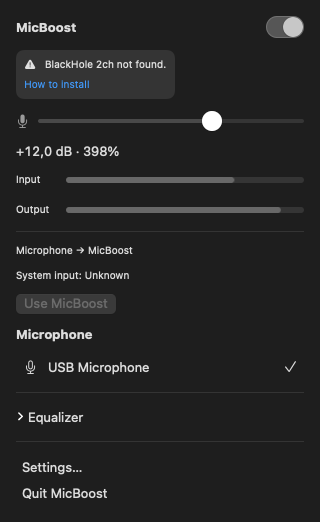
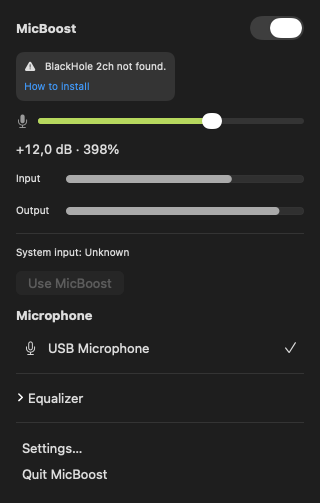
Use native menu defaults and record the actual build SDK

diff --git a/Sources/MicBoostApp/App/main.swift b/Sources/MicBoostApp/App/main.swift
@@ -2,27 +2,47 @@ import AppKit
 import MicBoostUI
 import SwiftUI
 
-@MainActor final class AppDelegate: NSObject, NSApplicationDelegate, NSWindowDelegate, NSPopoverDelegate {
+@MainActor final class AppDelegate: NSObject, NSApplicationDelegate, NSWindowDelegate, NSMenuDelegate {
     private let model = AppModel()
     private var status: NSStatusItem?
-    private let popover = NSPopover()
+    private let panelMenu = NSMenu(title: "MicBoost")
+    private var menuHost: NSView?
+    private var optionClickMonitor: Any?
     private var settings: NSWindow?
     private var quitting = false
     func applicationDidFinishLaunching(_ notification: Notification) {
         configureMenu()
         let item = NSStatusBar.system.statusItem(withLength: NSStatusItem.squareLength)
-        item.button?.target = self
-        item.button?.action = #selector(toggle)
-        item.button?.sendAction(on: [.leftMouseUp, .rightMouseUp])
         status = item
-        popover.behavior = .transient
-        popover.delegate = self
-        let host = NSHostingController(
-            rootView: PanelView(model: model).onExitCommand { [weak self] in
-                self?.closePanel()
-            })
-        host.sizingOptions = .preferredContentSize
-        popover.contentViewController = host
+        panelMenu.autoenablesItems = false
+        panelMenu.delegate = self
+        let host = NSHostingView(
+            rootView: PanelView(model: model)
+                .onGeometryChange(for: CGSize.self) {
+                    $0.size
+                } action: { [weak self] size in
+                    guard let host = self?.menuHost, host.frame.size != size else { return }
+                    host.setFrameSize(size)
+                })
+        host.safeAreaRegions = []
+        host.frame = NSRect(origin: .zero, size: host.fittingSize)
+        host.autoresizingMask = [.width]
+        menuHost = host
+        let content = NSMenuItem()
+        content.view = host
+        content.isEnabled = true
+        panelMenu.addItem(content)
+        item.menu = panelMenu
+        optionClickMonitor = NSEvent.addLocalMonitorForEvents(matching: [.leftMouseDown, .rightMouseDown]) {
+            [weak self] event in
+            let consumed = MainActor.assumeIsolated {
+                guard let self, event.window === self.status?.button?.window, event.modifierFlags.contains(.option)
+                else { return false }
+                self.model.processing(!self.model.controls.processingEnabled)
+                return true
+            }
+            return consumed ? nil : event
+        }
         model.onSettings = { [weak self] in self?.showSettings() }
         model.onQuit = { NSApplication.shared.terminate(nil) }
         model.onUpdate = { [weak self] in self?.update() }
@@ -67,28 +87,20 @@ import SwiftUI
             "MicBoost, \(model.message ?? localized(model.controls.processingEnabled ? "Active" : "Stopped")), \(AppModel.gainLabel(model.controls.gainDB))"
         )
     }
-    @objc private func toggle() {
-        if NSEvent.modifierFlags.contains(.option) {
-            model.processing(!model.controls.processingEnabled)
-            return
-        }
-        if popover.isShown { closePanel() } else { showPanel() }
-    }
     private func showPanel() {
-        guard let button = status?.button else { return }
-        popover.animates = !NSWorkspace.shared.accessibilityDisplayShouldReduceMotion
-        NSApplication.shared.activate(ignoringOtherApps: true)
-        popover.show(relativeTo: button.bounds, of: button, preferredEdge: .minY)
-        popover.contentViewController?.view.window?.makeKey()
+        RunLoop.main.perform(inModes: [.default]) { [weak self] in
+            MainActor.assumeIsolated { self?.status?.button?.performClick(nil) }
+        }
     }
     private func closePanel() {
-        popover.performClose(nil)
+        panelMenu.cancelTracking()
     }
-    func popoverDidShow(_ notification: Notification) {
+    func menuWillOpen(_ menu: NSMenu) {
+        NSApplication.shared.activate(ignoringOtherApps: true)
         status?.button?.highlight(true)
         model.setPanelVisible(true)
     }
-    func popoverWillClose(_ notification: Notification) {
+    func menuDidClose(_ menu: NSMenu) {
         model.setPanelVisible(false)
         status?.button?.highlight(false)
     }
@@ -112,7 +124,11 @@ import SwiftUI
     func windowWillClose(_ notification: Notification) { model.settingsVisible = false }
     @objc private func sleep() { Task { try? await model.engine.willSleep() } }
     @objc private func wake() { Task { await model.engine.didWake() } }
+    func applicationWillTerminate(_ notification: Notification) {
+        if let optionClickMonitor { NSEvent.removeMonitor(optionClickMonitor) }
+    }
     func applicationShouldTerminate(_ sender: NSApplication) -> NSApplication.TerminateReply {
+        closePanel()
         guard !quitting else { return .terminateNow }
         quitting = true
         Task {

diff --git a/Sources/MicBoostUI/Views.swift b/Sources/MicBoostUI/Views.swift
@@ -16,7 +16,9 @@ import SwiftUI
                     localized("Processing"),
                     isOn: Binding(get: { model.controls.processingEnabled }, set: model.processing)
                 )
-                .labelsHidden().toggleStyle(.switch).accessibilityLabel(localized("Processing"))
+                .labelsHidden().toggleStyle(.switch)
+                .accessibilityLabel(
+                    localized("Processing"))
             }
             if let message = model.message {
                 VStack(alignment: .leading) {
@@ -71,7 +73,6 @@ import SwiftUI
             meter("Output", model.outputDB)
             if model.clipped { Text(localized("Input clipped")).font(.caption).foregroundStyle(.red) }
             Divider()
-            Text("\(model.status?.source?.name ?? localized("Microphone")) → MicBoost").font(.caption)
             if model.status?.defaultInput.isBlackHole == true {
                 Label(localized("System input: MicBoost"), systemImage: "checkmark.circle.fill").font(.caption)
             } else {
@@ -109,7 +110,7 @@ import SwiftUI
                             .labelsHidden()
                             .accessibilityLabel(localized("Enable EQ"))
                             .toggleStyle(.switch)
-                            .controlSize(.small)
+
                             .onChange(of: model.controls.eq.enabled) { model.eq() }
                     }
                     band(
@@ -235,6 +236,7 @@ import SwiftUI
                     }.fixedSize(horizontal: false, vertical: true)
                 }
                 .toggleStyle(.switch)
+
                 .onChange(of: model.controls.manageDefaultInput) {
                     let enabled = model.controls.manageDefaultInput
                     Task { await model.engine.setDefaultInputManagement(enabled) }
@@ -296,7 +298,7 @@ import SwiftUI
             }
         }
         .formStyle(.grouped)
-        .controlSize(.regular)
+
         .frame(width: 540)
     }
     private var channel: Int {

diff --git a/Sources/render-screenshots/main.swift b/Sources/render-screenshots/main.swift
@@ -22,7 +22,8 @@ import SwiftUI
             let view = kind == "settings" ? AnyView(SettingsView(model: model)) : AnyView(PanelView(model: model))
             let appearance = NSAppearance(named: dark ? .darkAqua : .aqua)
             let host = NSHostingView(
-                rootView: view.padding(0).background(.background).environment(\.colorScheme, scheme))
+                rootView: view.padding(0).background(.background).environment(\.colorScheme, scheme).environment(
+                    \.appearsActive, true))
             host.appearance = appearance
             let size = host.fittingSize
             let window = NSWindow(

diff --git a/docs/ui.md b/docs/ui.md
@@ -21,17 +21,16 @@
 
 ## Painel
 
-`NSPopover` padrão do AppKit, com conteúdo em `NSHostingController<PanelView>`:
-- comportamento `.transient`: o sistema fecha ao clicar fora;
-- moldura, material, transparência, sombra, cantos e seta do próprio popover, sem camadas de fundo nem desenho adicional;
-- conteúdo de 320 pt de largura e altura acompanhando o tamanho preferido do hosting controller;
-- ancorado no `NSStatusBarButton`; posicionamento e limites da tela gerenciados pelo AppKit;
-- foco de teclado na janela do popover para edição de valores e atalhos;
-- animações nativas desabilitadas quando "Reduzir movimento" está ativo.
+`NSMenu` padrão do AppKit, sem seta, com `PanelView` hospedada na `view` de um `NSMenuItem`:
+- moldura, material, transparência, sombra e cantos desenhados pelo próprio menu, sem camadas de fundo adicionais;
+- conteúdo SwiftUI de 320 pt, com padding de conteúdo e sem herdar safe areas da janela interna do menu; mudanças de tamanho atualizam o frame da view do item;
+- aberto sob o `NSStatusBarButton`, alinhado à direita e limitado à tela pelo AppKit;
+- fechamento e navegação do menu gerenciados pelo AppKit, inclusive Escape e clique fora;
+- o delegate inicia os medidores ao abrir e os cancela ao fechar;
+- entrada no tracking pelo run loop para não manter um job de concorrência Swift ocupado.
 
-Fecha com clique fora, `Esc` ou novo clique no ícone. **Fechar o painel nunca afeta o motor.**
-O delegate inicia os medidores ao mostrar e os cancela ao fechar. Aparência e preferências
-de acessibilidade são herdadas do sistema; não alterar o fundo ou a opacidade da janela.
+**Fechar o painel nunca afeta o motor.** Aparência e preferências de acessibilidade
+são herdadas do sistema. Não alterar o fundo, recorte ou opacidade da janela do menu.
 
 Conteúdo, de cima para baixo (SwiftUI, `PanelView`):
 
@@ -41,13 +40,13 @@ Conteúdo, de cima para baixo (SwiftUI, `PanelView`):
    - O estado persiste (`processingEnabled`), e a troca nunca fecha o painel.
 2. **Ganho:** botão de mute com o ícone `mic.fill`/`mic.slash.fill`, `Slider` de ganho de −12 a +24 dB e rótulo `+12,0 dB · 398%`. O valor é editável: clicar no rótulo abre um campo numérico em dB. O selo "Limitando" (pílula discreta) aparece durante a proteção de pico.
 3. **Medidores:** duas barras finas horizontais, "Entrada" e "Saída", em dBFS de −60 a 0, que só mudam de cor perto de 0. Aviso "Entrada saturada" quando `input_clipped`.
-4. **Roteamento:** estado da entrada do sistema:
+4. **Entrada do sistema:** apenas o estado da entrada padrão; a fonte selecionada é indicada pela marcação na lista de microfones, sem uma linha adicional de caminho do áudio:
    - ok: "Entrada do sistema: MicBoost" com marcação;
    - divergência: "Entrada do sistema: <nome>" + botão "Usar MicBoost".
    - com `manageDefaultInput` desligado, a linha só informa a entrada atual, sem tratá-la como divergência; o botão "Usar MicBoost" aparece se a entrada não for o BlackHole.
 5. **Microfone:** lista de fontes elegíveis no estilo das listas de dispositivos da Central de Controle (ícone por transporte, nome, marca de seleção). Selecionar troca a fonte (reconstrução do motor com rampa). Uma fonte persistida que não está conectada aparece como "<nome> (desconectado)".
 6. **Equalizador:** seção expansível (`DisclosureGroup`, recolhida por padrão; o estado de expansão persiste), com:
-   - `Toggle` "Ativar EQ" com switch nativo pequeno;
+   - `Toggle` "Ativar EQ" com switch nativo padrão;
    - Graves: slider de ganho (dB) + campo de frequência (Hz);
    - Médios: slider de ganho + campo de frequência + slider "Largura" com o valor de Q mostrado (Q maior = banda mais estreita);
    - Agudos: slider de ganho + campo de frequência;
@@ -80,7 +79,7 @@ Uma faixa no topo do conteúdo, abaixo do cabeçalho, mostra uma mensagem por ve
 `NSWindow` de 540 pt de largura com SwiftUI `SettingsView` (`Form` com estilo `.grouped`), aberta por "Ajustes…" ou ⌘, com o painel focado. Seções:
 
 As seções seguem o estilo dos Ajustes do Sistema: cartões agrupados nativos,
-controles de tamanho regular, switch nativo à direita com explicação secundária
+controles com tamanho padrão do sistema, switch nativo à direita com explicação secundária
 junto ao rótulo e linhas de diagnóstico/sobre com rótulo à esquerda e valor à direita.
 
 - **Áudio:** chave "Usar MicBoost como entrada do sistema automaticamente" (`manageDefaultInput`, ligada por padrão), com uma frase explicando que, desligada, cada app precisa selecionar o microfone "BlackHole 2ch" por conta própria; tamanho de buffer (64/128/256/512/1024, só os valores suportados) e modo de canais da fonte atual ([audio-engine.md](audio-engine.md#canais)).
@@ -115,6 +114,15 @@ O app consulta snapshots de estado a 1 Hz; os medidores têm tarefa separada de 
 cancelada ao fechar o painel. A expansão do EQ fica em `UserDefaults.eqExpanded`.
 A validação manual de VoiceOver, contraste e preferências de acessibilidade está pendente.
 
-As capturas fora da tela documentam o conteúdo SwiftUI, não a composição do popover
-com o desktop. Moldura, seta e transparência exigem conferir a janela real composta
-pelo WindowServer.
+As capturas fora da tela documentam o conteúdo SwiftUI, não a composição do menu
+com o desktop. Moldura e transparência exigem conferir o menu real composto pelo
+WindowServer.
+
+O executável do app e o auxiliar de capturas registram o SDK real de compilação
+separadamente do mínimo macOS 14. O AppKit assim escolhe os controles da geração
+atual do sistema, incluindo o switch nativo de 54 × 24 pt no macOS 27; não aplicar
+transformações de escala nem desenhar uma versão própria desse controle.
+
+O menu ativa o app ao abrir para que os controles AppKit sejam apresentados ativos.
+Os toggles usam `.toggleStyle(.switch)`, sem tamanho, escala, tint ou estado visual
+forçados: o AppKit escolhe as métricas e a cor de destaque a partir do sistema.

diff --git a/docs/architecture.md b/docs/architecture.md
@@ -4,7 +4,7 @@
 
 ```text
 ┌──────────────────────── MicBoostApp (main thread) ────────────────────────┐
-│ AppKit: NSStatusItem + NSPopover  ·  SwiftUI: PanelView,     │
+│ AppKit: NSStatusItem + NSMenu  ·  SwiftUI: PanelView,     │
 │ SettingsView  ·  @Observable AppModel  ·  MeterPoller (20 Hz, só visível) │
 └───────────────┬───────────────────────────────────────────▲───────────────┘
                 │ comandos async                            │ snapshots de estado
@@ -123,13 +123,12 @@ Cada campo é decodificado isoladamente (`decodeIfPresent`), então um campo aus
 `MicBoostUI` é uma biblioteca interna com `AppModel`, `PanelView` e `SettingsView`,
 localizações `.strings` e dependência apenas de MicBoostCore e frameworks do sistema.
 O executável auxiliar `render-screenshots` reutiliza as views sem iniciar captura.
-`AppDelegate` mantém o item, popover nativo, janela de ajustes e notificações de suspensão; o encerramento
+`AppDelegate` mantém o item, menu nativo, janela de ajustes e notificações de suspensão; o encerramento
 assíncrono aguarda `AppModel.shutdown`, stop com fade, restauração e flush dos ajustes.
 O controller mantém `DefaultInputManager` e seu listener de entrada padrão na fila engine.
 Comandos de processamento são serializados pelo modelo para preservar a ordem dos cliques.
 
-O painel usa `NSPopover` `.transient` e `NSHostingController` com
-`sizingOptions = .preferredContentSize`. O AppKit controla a apresentação, moldura
-e fechamento externo. O delegate acompanha a visibilidade para ligar/desligar os
-medidores; o conteúdo trata Escape com `onExitCommand`. Não há janela, material
-ou monitores globais de clique implementados pelo app para esse painel.
+O painel usa `NSMenu` e um item com `NSHostingView<PanelView>` transparente.
+O AppKit controla moldura, tracking e fechamento. O frame do host acompanha a
+geometria SwiftUI, e o delegate acompanha a visibilidade para iniciar/cancelar os
+medidores. O tracking começa pelo run loop, fora de um job de concorrência Swift.

diff --git a/docs/testing.md b/docs/testing.md
@@ -167,8 +167,19 @@ execução somada de 1,72 s; a suíte Core inclui o caso negativo
 `swift build`, `swift test`, lint recursivo de formatação, montagem debug e
 `codesign --verify --strict` passam na máquina de referência.
 
-O painel usa a moldura de `NSPopover` sem sobreposição de material ou bordas.
-Na janela real do macOS 27 foram conferidos a moldura com seta de ancoragem,
-redimensionamento ao expandir o EQ, fechamento por Escape e reabertura pelo item.
-A edição de valores e o fechamento externo continuam no roteiro manual completo. A compatibilidade com macOS 14
-é verificada na compilação; aparência nessa versão requer teste no próprio sistema.
+O painel usa a moldura de `NSMenu`, sem sobreposição de material, bordas ou seta.
+A conferência inclui a composição real pelo WindowServer e interação com os controles
+durante o tracking do menu.
+
+No macOS 27, uma sonda de `NSSwitch`/SwiftUI com mínimo 14 e SDK 27.2 mede
+54 × 24 pt. A mesma sonda com o SDK registrado como 14 mede 38 × 22 pt.
+O build do app verifica SDK igual ao Xcode selecionado e mínimo 14 em cada
+arquitetura antes da assinatura. O renderizador recebe a mesma configuração.
+
+Na composição real do menu no macOS 27, o controle ligado foi verificado pela
+acessibilidade como 54 × 24 pt e valor 1, com a cor verde oliva do sistema.
+A conferência incluiu ausência de seta e de corte vertical, remoção da linha
+redundante do caminho de áudio e atualização dos medidores com o menu aberto.
+O ajuste do SDK foi validado também em um executável de teste universal
+(arm64 + x86_64), com mínimo 14, SDK 27.2 e assinatura ad hoc válida em ambas
+as arquiteturas.

diff --git a/docs/distribution.md b/docs/distribution.md
@@ -25,8 +25,9 @@ Canais excluídos: Mac App Store, `homebrew/cask` oficial (as regras exigem pass
    - `CFBundleIdentifier`;
    - `CFBundleDevelopmentRegion = en`;
    - `CFBundleLocalizations = [en, pt-BR]`.
-4. Assina com `codesign --force --deep --sign - build/MicBoost.app`, sem hardened runtime e sem entitlements: não há sandbox e o runtime não é exigido sem notarização.
-5. Confere com `codesign --verify --strict build/MicBoost.app`.
+4. Registra no `LC_BUILD_VERSION` do executável o SDK real do Xcode selecionado (`xcrun --sdk macosx --show-sdk-version`), com `scripts/record-build-sdk.sh`/`vtool`, preservando macOS 14 como mínimo e verificando os dois valores. Isso permite ao AppKit escolher a aparência correspondente ao SDK de compilação, em vez de confundir SDK com deployment target.
+5. Assina com `codesign --force --deep --sign - build/MicBoost.app`, sem hardened runtime e sem entitlements: não há sandbox e o runtime não é exigido sem notarização.
+6. Confere com `codesign --verify --strict build/MicBoost.app`.
 
 O script chama `scripts/compile-icon.sh <App>/Contents/Resources` quando o arquivo existe e é executável. Esse helper fornece `AppIcon.icns` e, opcionalmente, `Assets.car`. O plist define `CFBundleIconFile` e `CFBundleIconName` como `AppIcon`. Sem o helper, o bundle de desenvolvimento continua compilável, sem ícone personalizado. Os bundles de localização SwiftPM são copiados para `Contents/Resources`. A versão vem da última tag `v*` (fallback de desenvolvimento `0.0.0`) e o contador é `git rev-list --count HEAD`. Release sempre usa assinatura ad hoc.
 

diff --git a/README.md b/README.md
@@ -66,7 +66,7 @@ Available today:
 - **Safe silence on zero input**: a source that delivers zeros — the built-in microphone with the
   lid closed, for example — produces silence in BlackHole, not noise.
 
-- **Standard macOS popover**, with system-managed appearance, positioning and dismissal.
+- **Standard macOS menu surface**, with system-managed appearance and dismissal, without a popover arrow.
 - **Menu bar panel** with gain, meters, routing status, microphones and EQ, plus settings for
   buffer, channels, automatic system input switching and diagnostics, using native grouped
   sections and switches.
